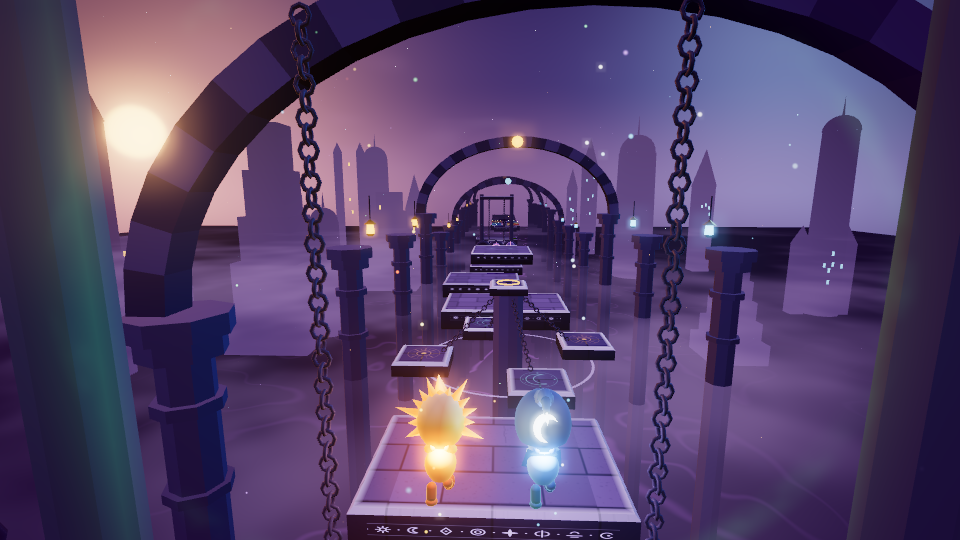
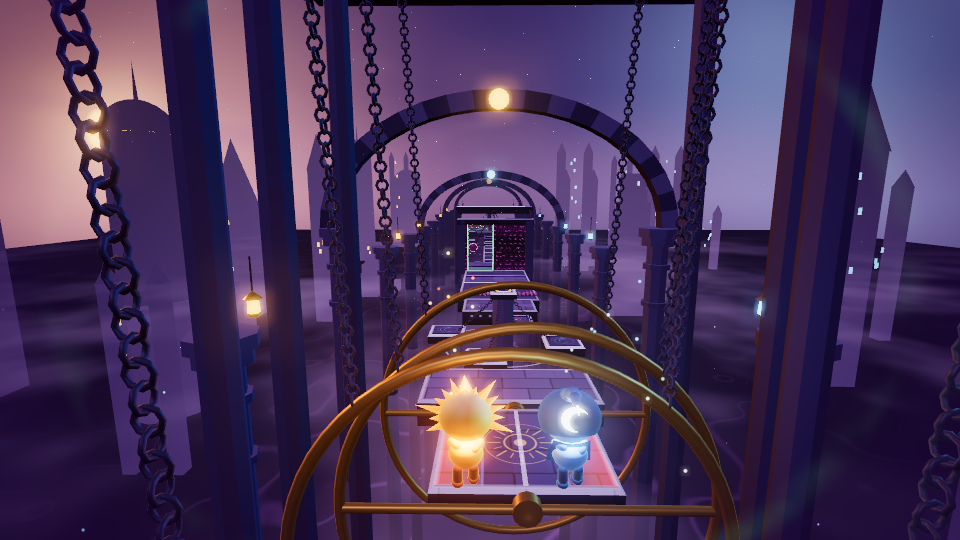
WIP Runner 3D: lintels above the cameras, lighter chains, slab screenshots, docs draft; edge-target misses reported by spot

diff --git a/tools/check-runner3d.js b/tools/check-runner3d.js
@@ -348,7 +348,7 @@ function checkSeed(seed) {
             return inZ && (sd === 0 ? Math.abs(u) < 0.2 : sd * u >= TILT.UE);
           };
           const S0 = snapAt(Tk - 150); place(S0, a, c); park(S0, 1 - a);
-          const r = solve(L, S0, a, { until: want, budget: BUDGET, o0: c.o0, o1: c.o1, rungs: 5 });
+          const r = solve(L, S0, a, { until: want, budget: BUDGET, o0: c.o0, o1: c.o1, rungs: 3 });
           const name = `edge ${sd ? (sd < 0 ? 'left' : 'right') : 'centre'} ${['near', 'mid', 'far'][zt]}`;
           if (!r.ok) { res.edgeMiss.push({ seed, k, obj: i, by: name, who: a }); continue; }
           const hops = []; for (let t = 0; t < 400; t++) hops.push(t % 40 < 2 ? IN_J : t % 80 < 40 ? IN_L : IN_R);
@@ -477,7 +477,9 @@ function report(t, secs) {
     const sp = t.spins, tt = (j) => sp.map(s => s.times[j]).filter(x => x != null);
     const rng = (a) => a.length ? `${Math.min(...a)}-${Math.max(...a)}` : '-';
     console.log(`  edge touches    ${sp.length - t.spinFail.length}/${sp.length} spun 2.5 to 3.5 turns (turns ${rng(sp.map(s => +s.n.toFixed(2)))}); turn 1 ${rng(tt(0))} ticks, turn 2 ${rng(tt(1))}, turn 3 ${rng(tt(2))}; level and still ${rng(sp.map(s => s.rest))} ticks after the touch`);
-    console.log(`  exact rest      ${t.level.n - t.level.fail.length}/${t.level.n} slabs at rest had angle and speed exactly 0; ${t.edgeMiss.length} edge targets the bot could not reach (skipped)`);
+    const miss = {}; for (const m of t.edgeMiss) miss[m.by] = (miss[m.by] || 0) + 1;
+    console.log(`  exact rest      ${t.level.n - t.level.fail.length}/${t.level.n} slabs at rest had angle and speed exactly 0`);
+    console.log(`  edge targets    ${t.edgeMiss.length} the bot could not reach in its budget (skipped): ${Object.entries(miss).map(([k, v]) => `${k.slice(5)} ${v}`).join(', ') || 'none'}`);
   }
   console.log(`  determinism     ${t.det.filter(d => d.ok).length}/${t.det.length} seeds identical on replay, from a fresh course and through JSON (${detSkip.length} skipped: course run failed)`);
   console.log(`  spare time at a section's exit vs the zone (ticks): min ${Math.min(...t.slack)}, median ${pct(t.slack, 0.5)}`);

diff --git a/public/js/r3d/views.js b/public/js/r3d/views.js
@@ -266,9 +266,9 @@ function tiltFaceBands(hx, hz, h) {
   return B.build();
 }
 // a static InstancedMesh of chain links along several segments [a, b] (three space)
-function chainLinks(segs, s = 0.22) {
+function chainLinks(segs, s = 0.3) {
   const per = segs.map(([a, b]) => Math.max(1, Math.round(a.distanceTo(b) / (s * 0.82))));
-  const im = new THREE.InstancedMesh(new THREE.TorusGeometry(s * 0.5, s * 0.14, 4, 8), materials().metal, per.reduce((x, y) => x + y, 0));
+  const im = new THREE.InstancedMesh(new THREE.TorusGeometry(s * 0.5, s * 0.14, 4, 6), materials().metal, per.reduce((x, y) => x + y, 0));
   const m = new THREE.Matrix4(), q = new THREE.Quaternion(), qa = new THREE.Quaternion(), e = new THREE.Euler(), p = new THREE.Vector3(), one = new THREE.Vector3(1, 1, 1), d = new THREE.Vector3();
   let k = 0;
   segs.forEach(([a, b], j) => {
@@ -312,7 +312,7 @@ VIEWS.tilt = {
       const g = new THREE.Mesh(slabG, m); g.visible = false; g.position.copy(spin.position); root.add(g); return g;
     });
     // the static frame: a bronze ring at each end with a crossbar and hub at the axle
-    const Rr = Math.max(R + 1.6, 4.2), zr = o.hz + 0.22, top = o.chain ?? 7;
+    const Rr = Math.max(R + 1.6, 4.2), zr = o.hz + 0.22, top = o.chain ?? 12;   // lintels high above the cameras
     const bronze = [];
     for (const zs of [-1, 1]) {
       bronze.push(new THREE.TorusGeometry(Rr, 0.13, 6, 56).translate(0, 0, zs * zr));

diff --git a/shared/runner3d.js b/shared/runner3d.js
@@ -340,7 +340,7 @@ const FEAT = {
       const gap = intro ? 1.5 : g.rf(1.5, Math.min(2.75, maxGap(drop && !k ? -1 : 0, d) - 1));
       g.z += gap;
       const cz = g.z + hz, R = Math.sqrt(hx * hx + h * h);
-      g.obj({ k: 'tilt', x0: cx - R, x1: cx + R, z0: g.z, z1: g.z + 2 * hz, y, cx, cz, hx, hz, T, chain: 7 });
+      g.obj({ k: 'tilt', x0: cx - R, x1: cx + R, z0: g.z, z1: g.z + 2 * hz, y, cx, cz, hx, hz, T, chain: 12 });
       g.z += 2 * hz;
     }
     const r = intro || d < 0.3 ? 0 : g.rf(-1, 0.5, 0.5);

diff --git a/docs/runner3d.md b/docs/runner3d.md
@@ -33,11 +33,11 @@ and its numbers, 5 determinism and netcode, 6 files and hooks, 7 rendering, 8 re
   ledge face that low keeps their speed while pressed against it, so a jump into a step face
   carries on over it. A 1.5 ledge holds a player at its face for about 8 ticks.
 - The player is a box 0.72 wide and 1.4 tall. Players pass through each other.
-- Static stone is solid on every side. Moving and tilting parts are solid from above only, so
+- Static stone is solid on every side. Moving and turning parts are solid from above only, so
   nothing can ever pin or wedge a player.
-- A player stood on an orbiting stone is carried with it. A tilted slab slides what stands on
-  it slowly downhill (5% of the slope per tick), so it is felt, but a player can always walk
-  against it.
+- A player stood on an orbiting stone is carried with it. A spinning slab leaning past 0.12 rad
+  slides what stands on it downhill (0.1 units per tick for each radian past that), and a player
+  can always walk against it.
 - Falling: a player more than 9 units below the last ground they stood on is lost.
 - No lead cap. A player may run as far ahead of the dusk as they can survive, and nothing holds
   a player who is holding forward. Until November 2026 a lead cap stopped a player on a run-up
@@ -88,7 +88,7 @@ shortens run-ups and crack times, speeds up clocks and adds lanes.
 
 Each section is a run-up (3 to 9 units, shorter with difficulty, sometimes changing width
 halfway) followed by one feature. Kinds are introduced one at a time, each first as an easy
-"intro" instance: gaps and steps (start), thorns (30), pools (70), chain slab (110), stepping
+"intro" instance: gaps and steps (start), thorns (30), pools (70), spinning slab (110), stepping
 stones (150), ember slabs (190), thorn sweeper (240), eclipse stones (290), twin beams (340),
 pendulums (390), orbiting stones (440), thorn curtain (500), rolling orbs (560). After that
 each section is a weighted random pick, never the same kind twice in a row.
@@ -105,7 +105,7 @@ difficulty.
 | Steps | Stairs up or down, ramps, drops, width changes | Rises ≤ 1.5 per step: 0.5 is walked, higher ones are climbed by walking into them (the mantle) or jumped. Ramps at most 1:2 | Stateless | Stateless | Same for both |
 | Thorns | Hedges blocking part of the width (dodge through the opening, or jump them) and low strips across the whole width (jump) | Openings ≥ 1.6 wide; rows spaced so a diagonal run reaches the next opening; strips ≤ 2.5 deep | Stateless | Stateless | Same for both |
 | Pools | Twin channels: a sun channel and a moon channel side by side with a neutral strip, swapping sides at higher difficulty, shade bars across them; shade ponds; a sun/moon checkerboard | Every hostile stretch is either walkable around (the strip) or ≤ the gap limit | Stateless | Stateless | Mirrored: Sol's channel is Luna's channel reflected, and the checkerboard has an even column count so its mirror swaps the colours |
-| Chain slab | Slab hung on chains over a pit, tilting on two axes toward the weight on it | Gaps on and off sized for the slab at full tilt | Checked with the other player arriving earlier, abusing it, and parked on its edges, middle and corners | Damped spring back to exactly level (snaps to 0 below 2e-4), bounded 150 ticks; solid from above only, so it can't wedge | Same for both |
+| Spinning slab | A two-faced stone slab over a pit, turning on an axle along the course. Stand on its centre band and it only rocks; touch an outer band and it spins about three turns and stops level, sun or moon face up | A ledge as wide as the slab leads to it, so a straight run lands on the centre band. Gaps on and off at most 2.75. It only rolls sideways, so its near and far edges never rise or drop | Checked with the other player crossing earlier, abusing it at random, touching each edge and corner and the centre then hopping, and parked on its centre band. A second arrival waits on the ledge at most one spin (about 1.7 s) | A sprung latch holds it level; snapped to exact rest (angle and speed exactly 0) once slow and level with nobody on it. Back at rest within 150 ticks of the last touch (an edge touch: 104). Solid from above only and only while the latch holds it within 0.5 rad of level, so it can't wedge, push or hurt anyone | Same for both |
 | Stepping stones | Three lanes of stones over a pit with some missing | Every stone reachable from a stone in the row before (lanes at most one apart), gaps ≤ limit | Stateless | Stateless | Same for both |
 | Twin beams | Two narrow beams side by side, breaking into pieces with jogs at higher difficulty | Beam gaps ≤ limit minus 2 | Stateless | Stateless | Same for both (both beams open to both) |
 | Ember slabs | Floating slabs, each split into two halves side by side, that crack once stood on, fall away and re-form | Crack time 40 to 26 ticks is plenty to land and jump; gaps ≤ limit | A player cracks only the half they stand on, so one pass always leaves a half for the player behind; a broken half is gone 30 ticks and back 12 later once nobody is in its space | Fixed timers | Same for both |
@@ -115,6 +115,77 @@ difficulty.
 | Orbiting stones (new, 3D) | Four stones circling a pillar over a pit; step on as one passes the ledge, ride or hop between stones, step off on the far side | A stone passes the ledge every quarter turn; hops between neighbouring stones are short | Fixed clock | Clock only | Same for both |
 | Thorn curtain (new, 3D) | A thorn curtain across the course, too tall to jump, with an opening that slides from side to side | Opening 3.0 wide at the start, 2.4 at full difficulty, sliding slowly: one period is 260 to 320 ticks, 40 fewer at full difficulty, so it moves at most about half of run speed. 3 units of floor before the first curtain to line up on. A player who runs and steers toward the opening as it is now gets through every time. Curtains in one section share a clock phased by running time, so following the opening through one lines you up with the next | Fixed clock | Clock only | Same for both |
 | Rolling orbs | Orbs rolling down lanes toward the players on fixed clocks | Dodge between lanes, or jump (an orb is 1.4 tall) | Fixed clock | Clock only | Same for both |
+
+### The spinning slab (kind `tilt`)
+
+The owner played the old chain slab and found its tip far too slow: in the original game, touching
+the tip of one sent it spinning about three times, the first two fast and the last slower. The
+slab was rebuilt in November 2026 (branch `runner3d-slab`).
+
+**The rule.** The slab turns on an axle along the course, through the middle of its thickness. It
+only rolls (left side up or down). Where you stand across it decides what it does:
+
+- The **centre band** (within 0.45 of the half width from the middle, marked on both faces by a
+  pale line and two thin edge lines): your weight leans it a little against a sprung latch. A
+  player standing still at the band's edge leans it 0.11 rad. A player running across it at full
+  speed leans it at most 0.07 rad, and not at all on the centre line.
+- The **outer bands** (glowing warm, hottest past 0.7 of the half width): standing there kicks it.
+  From 0.45 to 0.7 the kick grows. A small kick only swings it and the latch brings it back. A
+  bigger one frees it to spin. From 0.7 out the kick is full: it spins exactly 3 turns.
+- While it spins, nobody can stand on it. It passes through players beside or under it.
+- When the pins' friction has slowed it enough, the latch catches it on whichever face is up
+  (sun or moon; a half turn counts as rest because the slab is symmetric and both faces are
+  inlaid). It wobbles once and is snapped to exact rest: angle and speed exactly 0.
+
+Why one axis: two pins can only hold one axle, and an axle across the course would make every
+landing from the near ledge an edge touch. Along the course, the line you run on is the axle.
+
+**The numbers** (`TILT` in `shared/runner3d.js`, per tick at 60 Hz, angles in radians):
+
+| Constant | Value | What it does |
+| --- | --- | --- |
+| `T` | 0.6 | Slab thickness. The axle is `T/2` below the top |
+| `LOAD` | 0.01 | Lean per tick from a player at `u` = their offset over the half width: `LOAD * u` |
+| `K`, `C` | 0.045, 0.25 | The latch: a spring back to level and its damping while held |
+| `UC`, `UE` | 0.45, 0.7 | The centre band ends at `UC`; the kick is full from `UE` |
+| `W0` | 0.3 | Full kick: the spin speed it starts at |
+| `WF` | 0.12 | A kick this big frees it; a free spin slower than this is caught |
+| `P` | 4.5e-4 | Pin friction: each tick takes `2P` off the speed squared (constant power), so the turns slow down more and more |
+| `STAND` | 0.5 | It can be stood on only while held and within this of level |
+| `SLIP`, `SLIDE` | 0.12, 0.1 | Past `SLIP` it slides you downhill by `SLIDE` per radian beyond |
+| `EA`, `WA` | 0.02, 0.006 | Snapped to exact rest below these, with nobody on it |
+
+State per slab is `{ a, w, s, f }`: the angle from level on the face up, the angular speed,
+spinning or held, and which face is up. `node tools/r3d-slab.js` measures it:
+
+| Touch at u | Turns | Turn times (ticks) | At rest after the touch |
+| --- | --- | --- | --- |
+| 0 to 0.45 (centre band) | 0 | - | it leans at most 0.11 rad and holds you |
+| 0.5 | 0, a swing to about 1 rad | - | 47 ticks (0.8 s) |
+| 0.6 (mid outer band) | 0.5 | - | 40 ticks |
+| 0.65 | 1.5 | 31 | 70 ticks (1.2 s) |
+| 0.7 to 1 (edge) | 3 | 23, 26, 38 (0.38 s, 0.43 s, 0.63 s) | 104 ticks (1.73 s) |
+
+**The section.** A ledge as wide as the slab (1.5 units, 2 on the intro) leads to it, so a
+straight run lands on the centre band and an edge is a choice. Slabs are 4 to 5 units wide (half
+widths 2 to 2.5, 2.5 on the intro), 3.5 to 5 long, with gaps of 1.5 to 2.75 on and off. Two slabs
+in a row (past difficulty 0.5) are offset sideways by at most 1. The intro is one wide flat slab
+with 1.5-unit gaps. Its tip says to run the bright centre line.
+
+**The art** (`VIEWS.tilt` in `public/js/r3d/views.js`). The slab is two bevelled stone halves
+back to back, so both faces have the trim and glow: the sun inlay on face 0, the moon inlay on
+face 1, the centre line, the band edges and the warm outer bands on both. Its pin bosses with
+four bolt studs turn with it. At each end a large bronze ring (radius at least 4.2, so a jumping
+player passes inside it) carries a crossbar at axle height with a hub the pin turns in. Each ring
+hangs by two chains from a stone lintel on two columns rising from the abyss. While it spins
+fast: two faint after-images trail the turn, sparks fly off the pins and the ring shudders.
+Kicked off its latch, it throws dust; caught, it throws sparks from both hubs. The view uses 9
+draw calls at rest (11 while the after-images show) and 7.8k triangles; the old chain view used
+10 and 11.1k.
+
+![At rest](img/runner3d/render-slab-rest.png) ![Tipping](img/runner3d/render-slab-tip.png)
+![Mid-spin](img/runner3d/render-slab-spin.png) ![Crossing the centre](img/runner3d/render-slab-cross.png)
+![Split screen](img/runner3d/render-slab-split.png)
 
 ## 4. The checker and its final numbers
 
@@ -134,14 +205,24 @@ zone reaches it at z 1600 travelled). It tests, for every section:
 2. **Single section**: each section from its start with a 12-unit lead on the zone must be
    cleared alive. Sections slower than the zone are counted (the whole-course run shows the
    lead is made up again).
-3. **Second arrival** (chain slabs and ember slabs): the other character runs the section 10
-   to 130 ticks earlier, or abuses the parts (hops, stands on edges, falls off) from 130
+3. **Second arrival** (spinning slabs and ember slabs): the other character runs the section
+   10 to 130 ticks earlier, or abuses the parts at random (hops, strafes, falls off) from 130
    ticks earlier; the tested one arrives into whatever state the parts are in and must clear
-   it. The time lost is reported.
-4. **Parked partner** (chain slabs): the other character is held on the near edge, the
-   middle, the far edge and the corners of each slab (full tilt) while the tested one crosses.
-5. **Back to rest**: after every run and after random abuse, every stateful object must be
-   back at exact rest within its bound.
+   it. On each spinning slab the other character also lands on (or steps onto) each spot that
+   can happen: both side edges, the four corners, and the centre followed by hopping, setting
+   off 40 or 100 ticks before the tested one arrives, so the tested one meets the slab spinning,
+   settling or at rest. The time lost is reported, per kind of abuse.
+4. **Parked partner** (spinning slabs): a partner on an outer band flips the slab and falls, so
+   "parked" means standing still where the slab holds them: on the centre line and at the side
+   limits of the centre band (u = -0.4 and +0.4), each at the near end, the middle and the far
+   end. The partner is set there 150 ticks before the tested one arrives and lets go of the
+   keys; the sim decides what happens (a second load on the same side can tip it).
+5. **Back to rest**: after every run, after random abuse and after every edge and corner touch,
+   every stateful object must be back at exact rest within its bound. A spinning slab coming
+   to rest must be exactly level: angle and speed exactly 0, drawn at 0 or pi.
+5b. **Edge touches**: each edge and corner touch is replayed with nobody else about, and the
+   spin it starts must last between 2.5 and 3.5 turns. The turn times and the time to rest are
+   reported.
 6. **Equal difficulty**: average clear time per kind for Sol and for Luna.
 7. **Determinism**: both course routes played together give the same state hash twice, from
    a freshly generated course, and with the state sent through `JSON.parse(JSON.stringify(S))`
@@ -188,7 +269,7 @@ without standing still to wait:
 | Lead cap | A full-speed runner reached 141 of 145 run-ups in the first 600 units more than 32 ahead of the dusk, the first 4.9 s in, and was stopped on each. Hopping across a run-up slipped past it, which nobody would guess | Removed. No cap of any kind |
 | Step-ups | A rise over 0.5 was a wall until you jumped. Rises come in 0.25 steps up to 1.5, so a 0.75 step looked walkable and was not | The mantle: walk into a ledge up to 1.5 high and you hop up onto it, keeping your speed |
 | Thorn curtain | The never-stop bot got through on every try, but only by picking on the run-up where the opening would be. A reactive runner, steering toward the opening as it is, cleared 92% of tries on 30 seeds | Opening 3.0 to 2.4 wide, was 2.6 to 2.0. Slide period 260 to 320 ticks, was 160 to 210. 3 units of floor before the first curtain, was 1.5. The reactive runner clears 100% |
-| Gaps, steps, thorns, pools, chain slabs, stepping stones, ember slabs, eclipse stones, beams | No forced waits | No forced waits |
+| Gaps, steps, thorns, pools, spinning slabs (at rest), stepping stones, ember slabs, eclipse stones, beams | No forced waits | No forced waits |
 | Sweeper, pendulum, orbiting stones, orbs | No forced waits at any of 12 arrival times. A runner times them by slowing on the run-up, never by standing still | Unchanged |
 
 The never-stop bot on this branch's code without the mantle and curtain changes, 4 seeds:
@@ -307,6 +388,7 @@ Measured with the real renderer on this machine's GPU, two headless clients and 
 | `public/js/r3d/boxes.js` | Debug overlay of the sim's collision shapes (`?boxes=1`). |
 | `public/r3d-demo.html` | The renderer on its own, with bots (section 9). |
 | `tools/r3d-far.js` | Sim tick time and state size with the players 0, 100 and 400 units apart. |
+| `tools/r3d-slab.js` | The spinning slab: turns and times for touches across it, a centre crossing, and client prediction of it at 6 and 12 ticks of lag. |
 | `tools/runner3d-browser.js`, `tools/r3d-shots.js`, `tools/r3d-perf.js`, `tools/r3d-eval.js`, `tools/r3d-glprobe.js` | Browser checks and look and speed tools (section 9). |
 
 Hooks in the shared shell files. Each is a few lines next to the matching 2D runner hook.
@@ -353,7 +435,7 @@ checked every kind this way at an easy and a hard instance, and the moving ones 
 | Gaps, steps, beams, stones | Matched | Matched (slab edges are the sim's edges) |
 | Thorns | Matched | Matched (thorn field fills the box, tips at `th`) |
 | Pools | Matched | Matched; plus a per-player danger rim |
-| Chain slab (tilt) | Matched (exact shear of the sim's plane) | Matched |
+| Spinning slab (tilt) | Matched (exact shear of the sim's plane) | Rebuilt as a turning slab (section 7, "The spinning slab"). The top face, the centre band's edges and the start of the full kick match the sim's lines at rest, tipping and mid-spin, in single view and split screen |
 | Ember slabs | Halves matched, but a re-forming half looked solid while it held nobody | Re-forming halves are a see-through outline until they are solid |
 | Eclipse stones | Matched (solid for its own player's camera, ghost for the other) | Matched |
 | Thorn sweeper | Thorns reached 0.56 from the arm's line and 0.8 high; the sim's arm is 0.15 and 0.55 high | Beam and thorns stay within 0.15 and below the bar |
@@ -439,6 +521,9 @@ trust.
 - **Which eclipse stones are yours.** Your own stones are solid stone in your colour; the other
   player's are see-through ghosts on your camera. The first eclipse section shows a tip in each
   player's own words.
+- **Spinning slabs.** The centre band is pale with a bright line down the middle; the outer
+  bands glow warm, hottest where a touch flips it. A spinning slab leaves after-images and
+  throws sparks from its pins, so a player behind can see it is not yet safe to land on.
 - **Ember slabs about to fall.** A whole half glows softly. Once stood on it shakes harder and
   harder, its cracks flare and sparks rise; a crack sound plays for your own player. A fallen half
   drops and fades; a re-forming half is a see-through outline until it is solid again.
